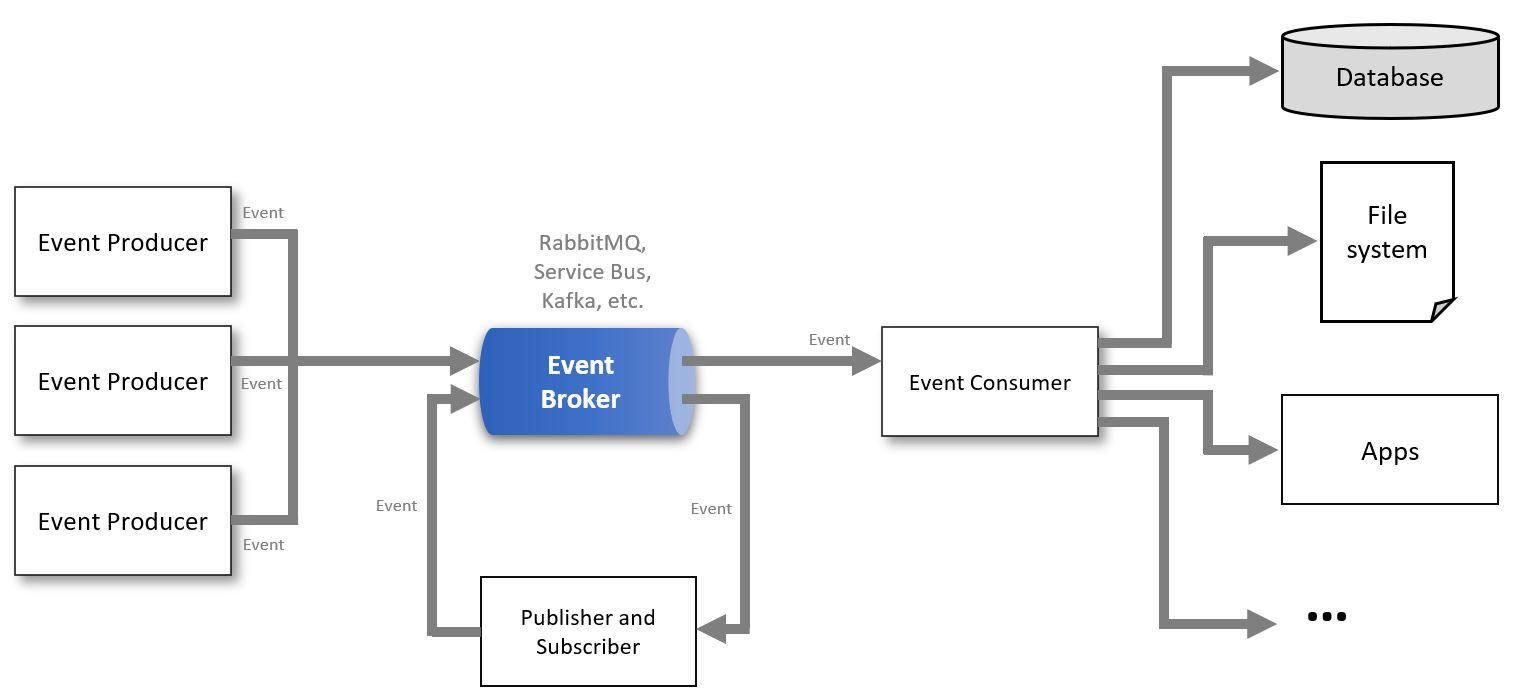
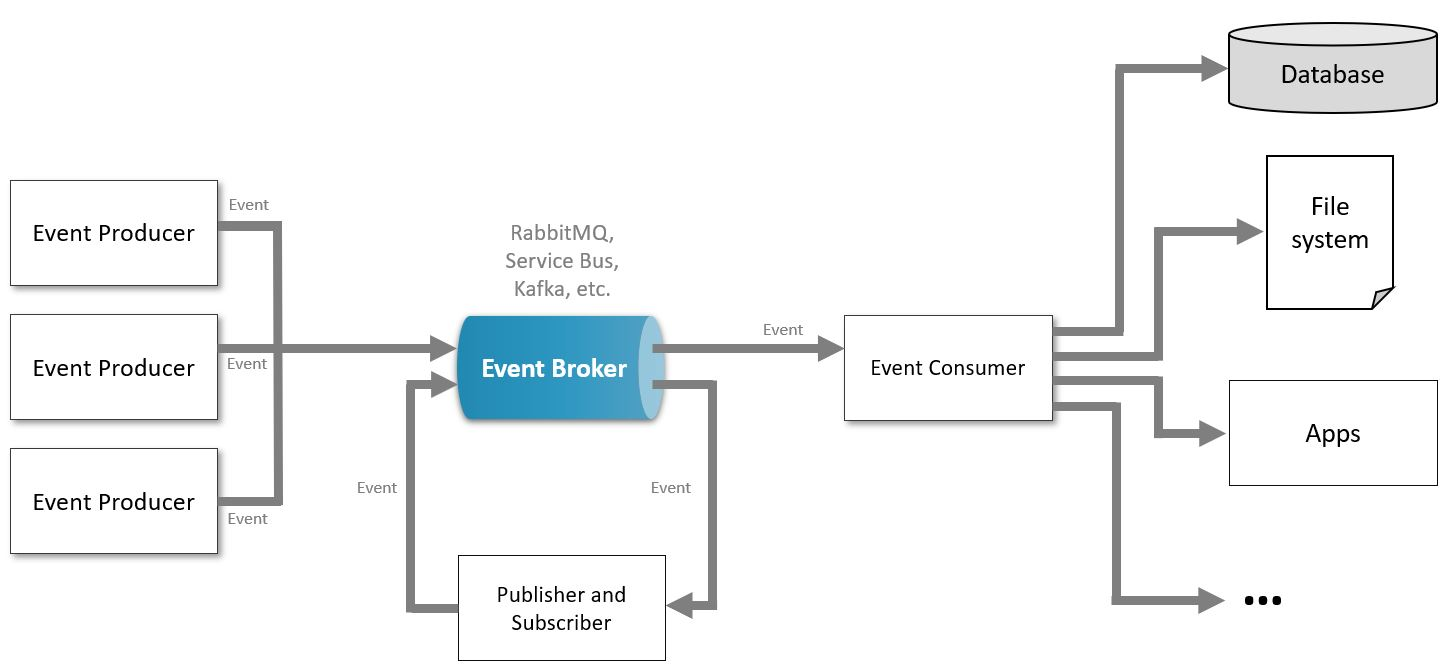
update some figures and open graph images

diff --git a/_posts/2023-02-06-implement-openapi-specification-for-webapi-by-swagger.md b/_posts/2023-02-06-implement-openapi-specification-for-webapi-by-swagger.md
@@ -5,6 +5,7 @@ date: 2023-02-06
 categories: [Interface Description Language]
 tags: [C#, .NET, ASP.NET, OpenAPI, Swagger, RESTful, REST, WebApi,]
 description: OpenAPI Specification (OAS) is a language-independent standard that use to define the structure and implementation of RESTful APIs...
+image: '/assets/img/posts/2023/02/OpenApi-Open-Graph.jpg'
 ---
 
 Today, APIs have greatly influenced the web. The stronger the API documentation is, the better and more useful the API will be. A good API can become a useless tool when people don't know how to use it. This is where it becomes clear why documentation can be essential for a professional and business API. On the other hand, it can be challenging to create and maintain a good document that is easy to understand, engaging with, and pleasing to the consumer. Therefore, there is a need for a standard that can create integrated documents, with the least effort, which, in addition to being cheaper and easier to maintain, can be understood by humans and computers. One of the prominent standards in Restful documentation is OpenAPI Specification. In this article, an explanation has been given about open API specifications. The swagger tool is also introduced in this regard, and finally, an example with .NET will be provided that shows the use of open API specifications by swagger.

diff --git a/_posts/2023-07-08-introduction-to-the-microservices-architecture-pattern.md b/_posts/2023-07-08-introduction-to-the-microservices-architecture-pattern.md
@@ -5,7 +5,7 @@ date: 2023-07-08
 categories: [Software Architecture]
 tags: [C#, .NET, Monolithic, Microservices, SOA, Service Oriented Architecture, Software Architecture]
 description: Microservice architecture are a collection of small, discrete services that work together to form a larger, more complex application...
-image: '/assets/img/posts/2023/07/Microservices-Architecture-Pattern.jpg'
+image: '/assets/img/posts/2023/07/Microservices-Architecture-Pattern-Open-Graph.jpg'
 ---
 
 With the increasing demand for large enterprise applications, a concept known as microservices has expanded throughout the software development industry, as developers are forced to adopt microservices architecture to construct large business systems. However, the concept of microservices appears to be a bit hard and complicated, but this is never the case, and in this post we will look at what, why, and the advantages and disadvantages of using microservices. But, before we go into the intricacies and grasp the nature of microservices architecture, it is important to understand why and how the process leading to microservices design evolved.

diff --git a/_posts/2022-12-28-clean-architecture.md b/_posts/2022-12-28-clean-architecture.md
@@ -5,6 +5,7 @@ date: 2022-12-28
 categories: [Software Architecture]
 tags: [C#, .NET, Clean Architecture, Software Architecture]
 description: A clean architecture is a software architecture that each layer depends on and has access to the inner layer. Internal layers...
+image: '/assets/img/posts/2022/12/CleanArchitecture-Open-Graph.jpg'
 ---
 
 In this article, an attempt has been made to present the basic concepts and principles of clean architecture, along with a sample project. There are many proposed architectures for implementing software systems. Each of them has its advantages and disadvantages. Basically, a good architecture should be able to respond to the needs and changes of a software system in the long term. So that by changing the technology, changing the database, adapting to the new UI, etc., should not cause the loss of the structure, functionality, and complexity of the software code. Clean architecture is one of the few, and perhaps the best, architecture in this field that gives us the ability to reduce our perspective on dependencies and other long-term concerns.

diff --git a/_posts/2023-07-01-eventdriven-architecture-pattern.md b/_posts/2023-07-01-eventdriven-architecture-pattern.md
@@ -5,6 +5,7 @@ date: 2023-07-01
 categories: [Software Architecture]
 tags: [C#, .NET, Event Driven, Software Architecture]
 description: Event-driven architecture is a software design pattern that uses events to determine the flow of data in an application. Events can be user actions...
+image: '/assets/img/posts/2023/07/EventDriven-Architecture-Open-Graph.jpg'
 ---
 
 The request-response model in modern IT systems can become fairly complex when new applications and services are introduced to the infrastructure. To begin, if you want to verify that all elements are linked, you must define a request and a response for each interaction. For example, if Service A requires data from Service B, it will submit a request to Service B. Once Service B has processed the request and obtained the data, it will return the requested data to Service A. It is obvious that as the number of services provided by your system increases, you must likewise support all conceivable connections, which expand exponentially in relation to the number of services supported. Look at the Figure 1.
